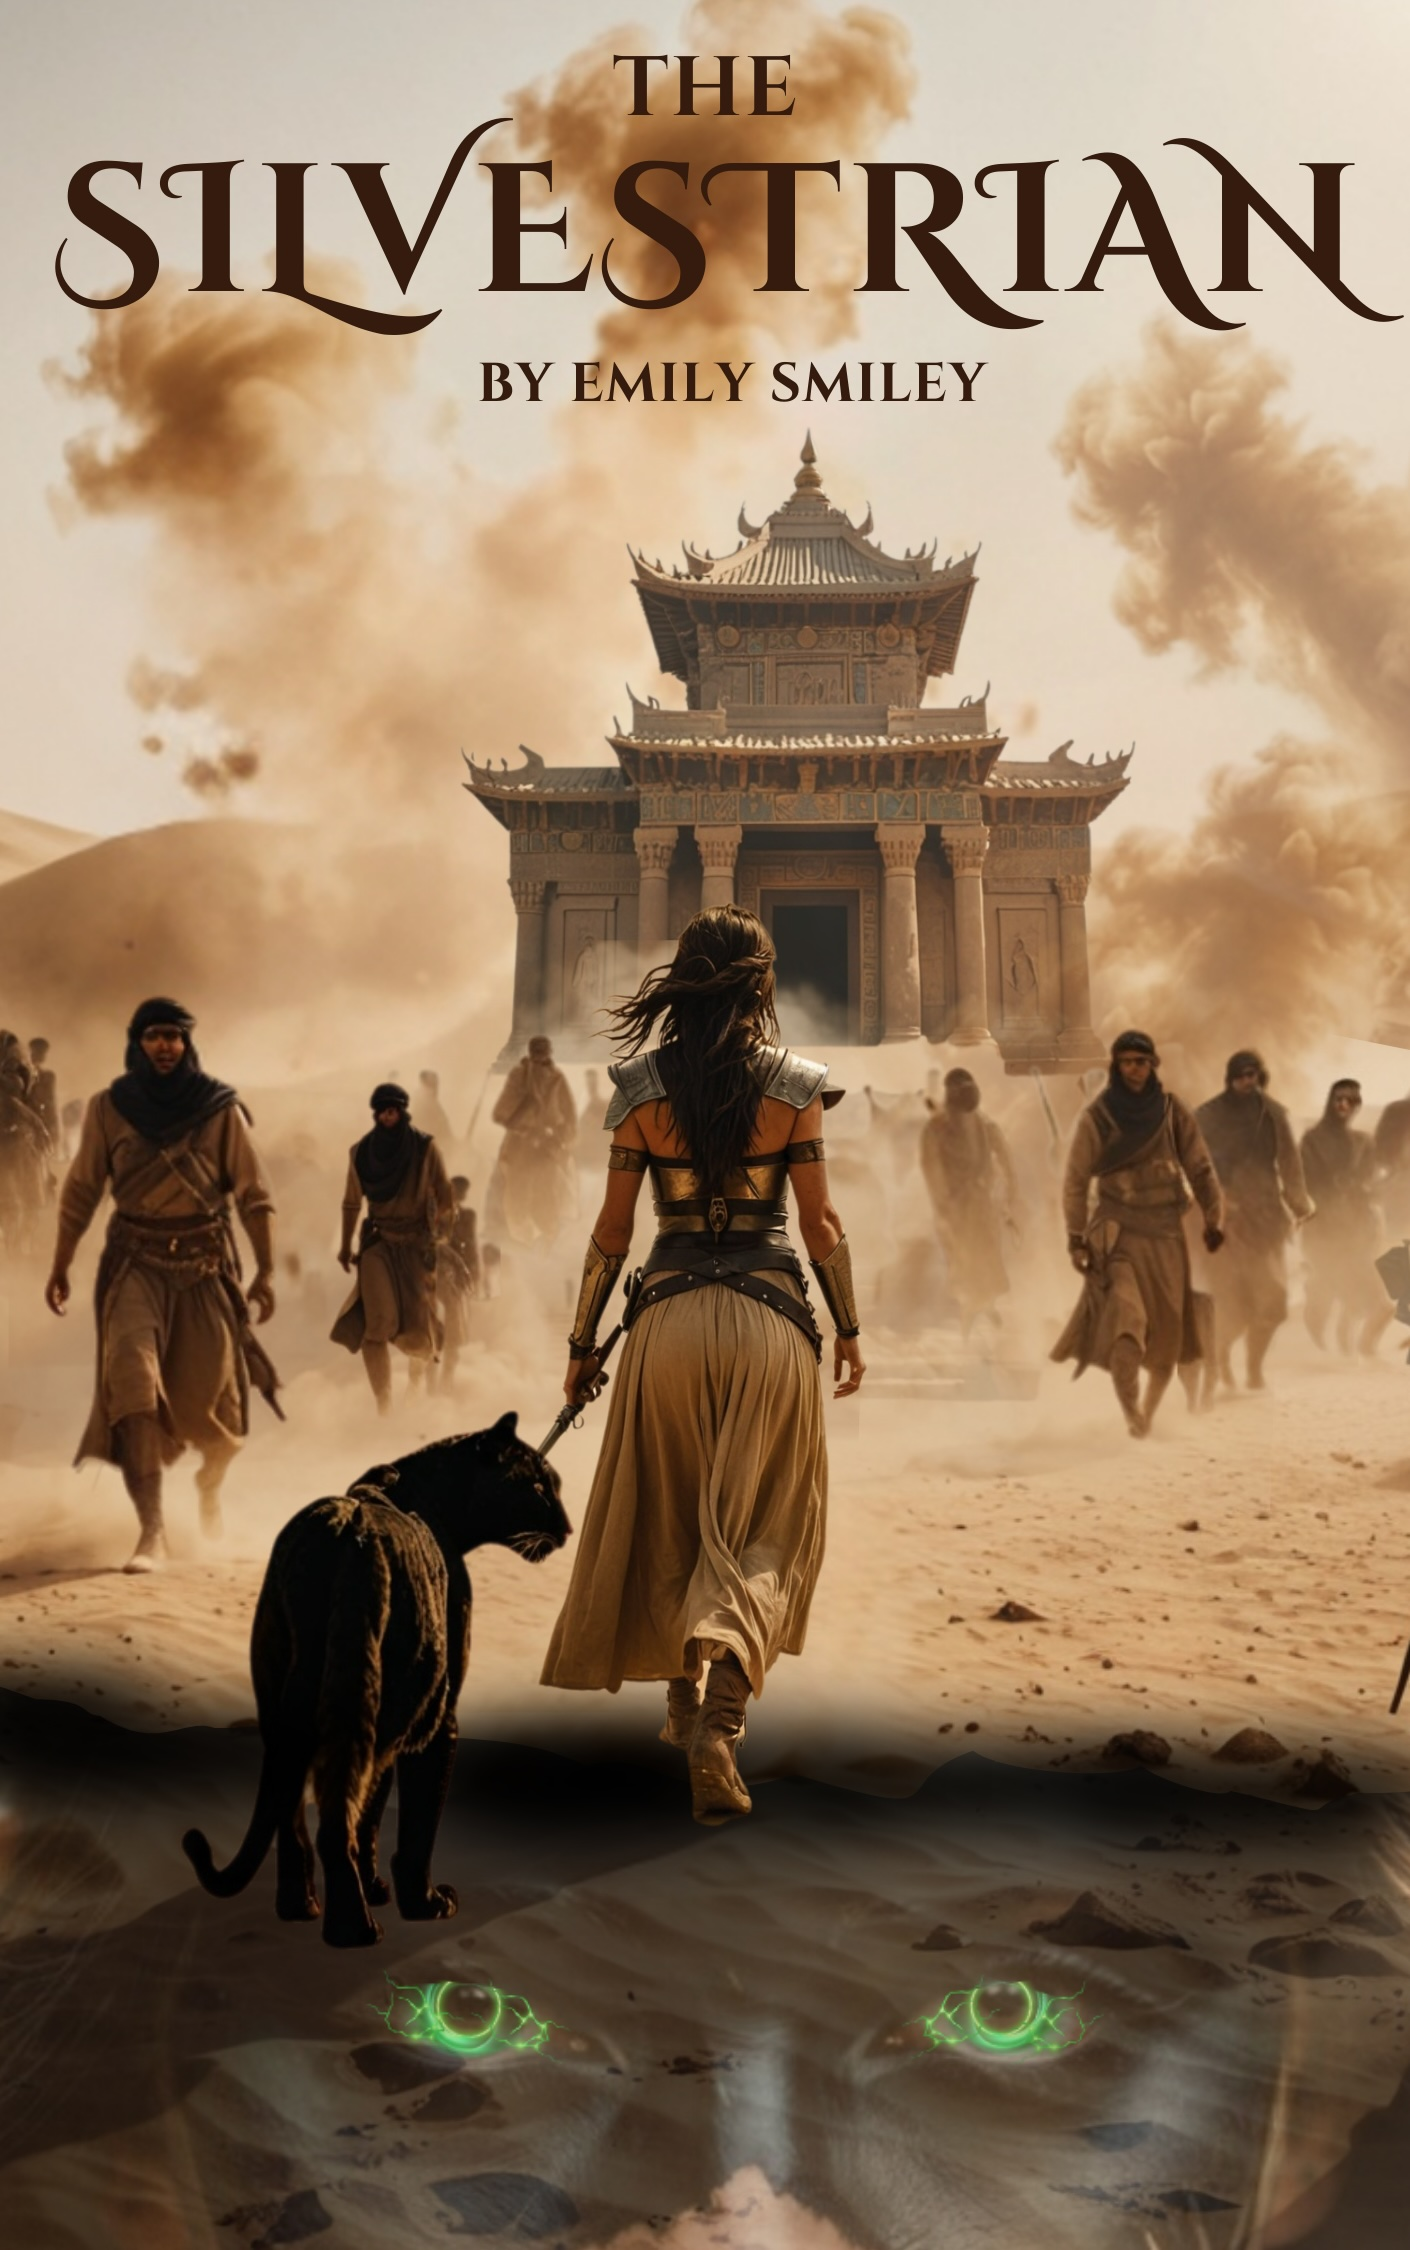
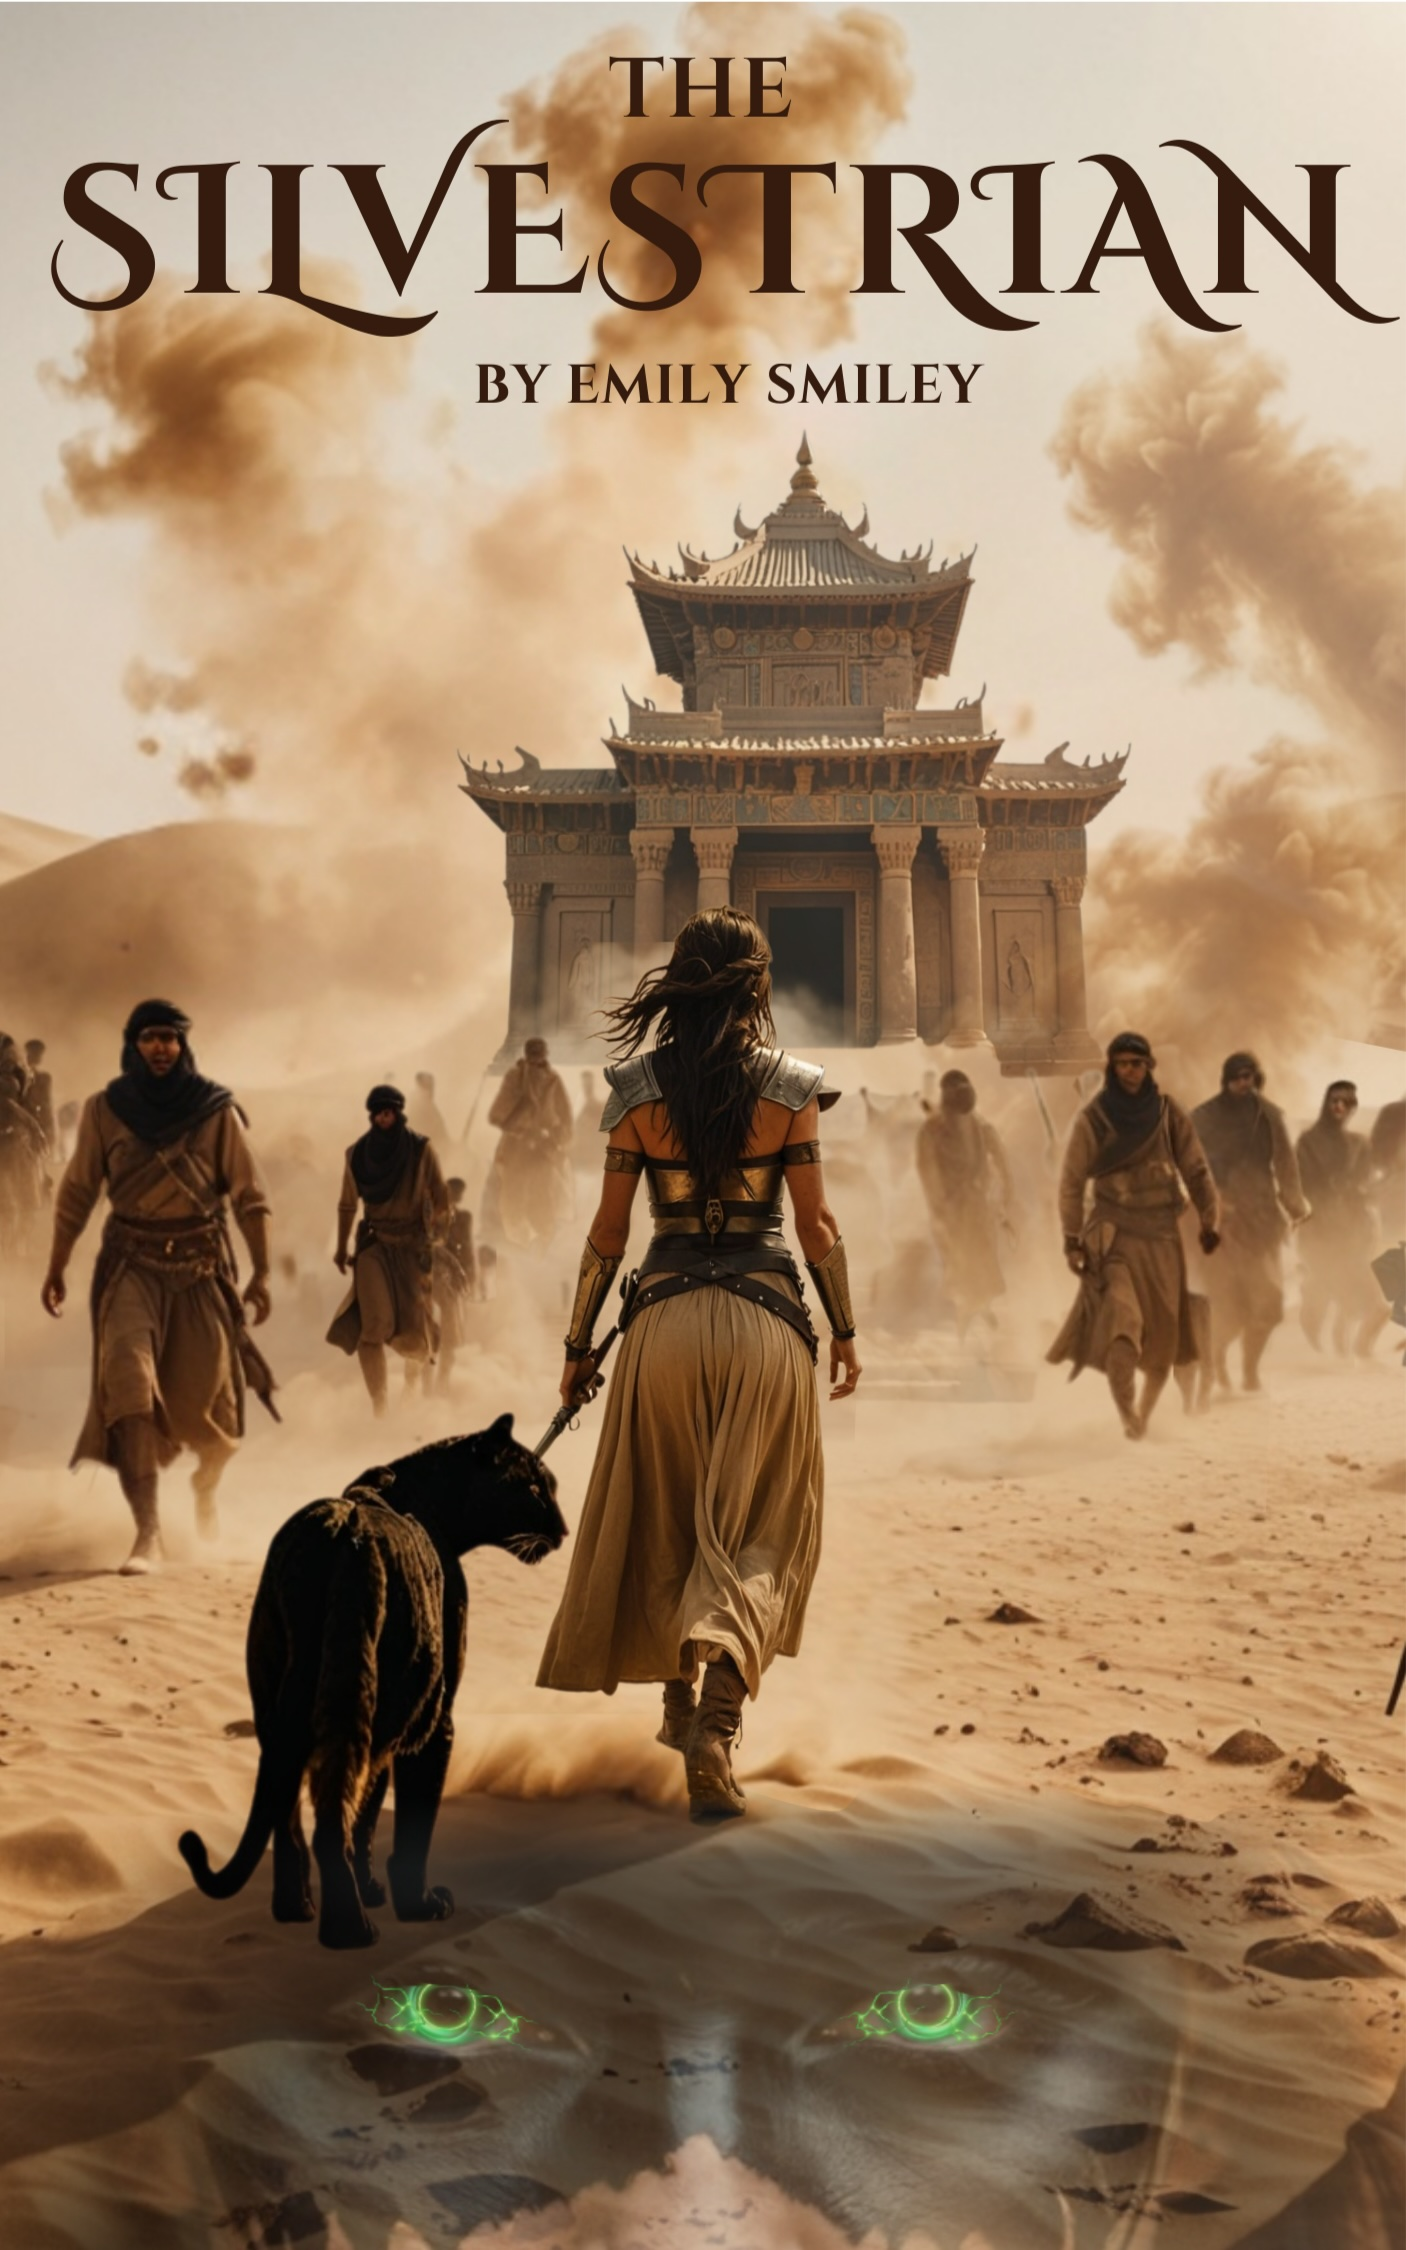
Downside image

diff --git a/_books/the-silvestrian.md b/_books/the-silvestrian.md
@@ -1,7 +1,7 @@
 ---
 layout: books
 title: The Silvestrian
-image: images/The-silvestrian.png
+image: images/The-silvestrian.jpg
 spotify: https://open.spotify.com/embed/playlist/6kb0sLtqutpTdI7jxG06wQ
 order: 2
 ---
